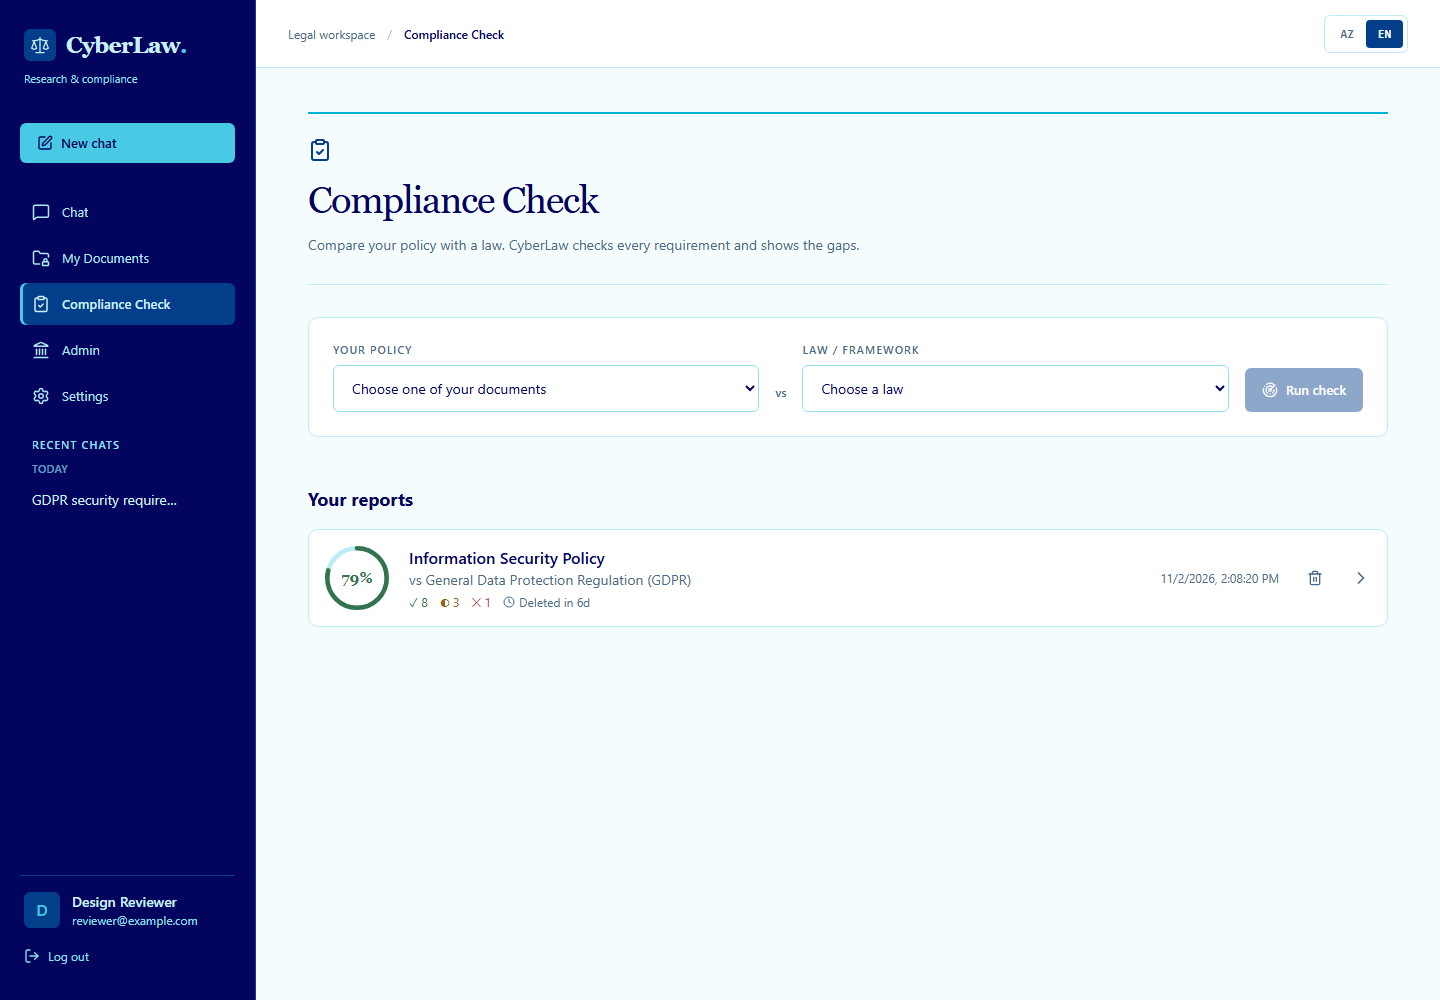
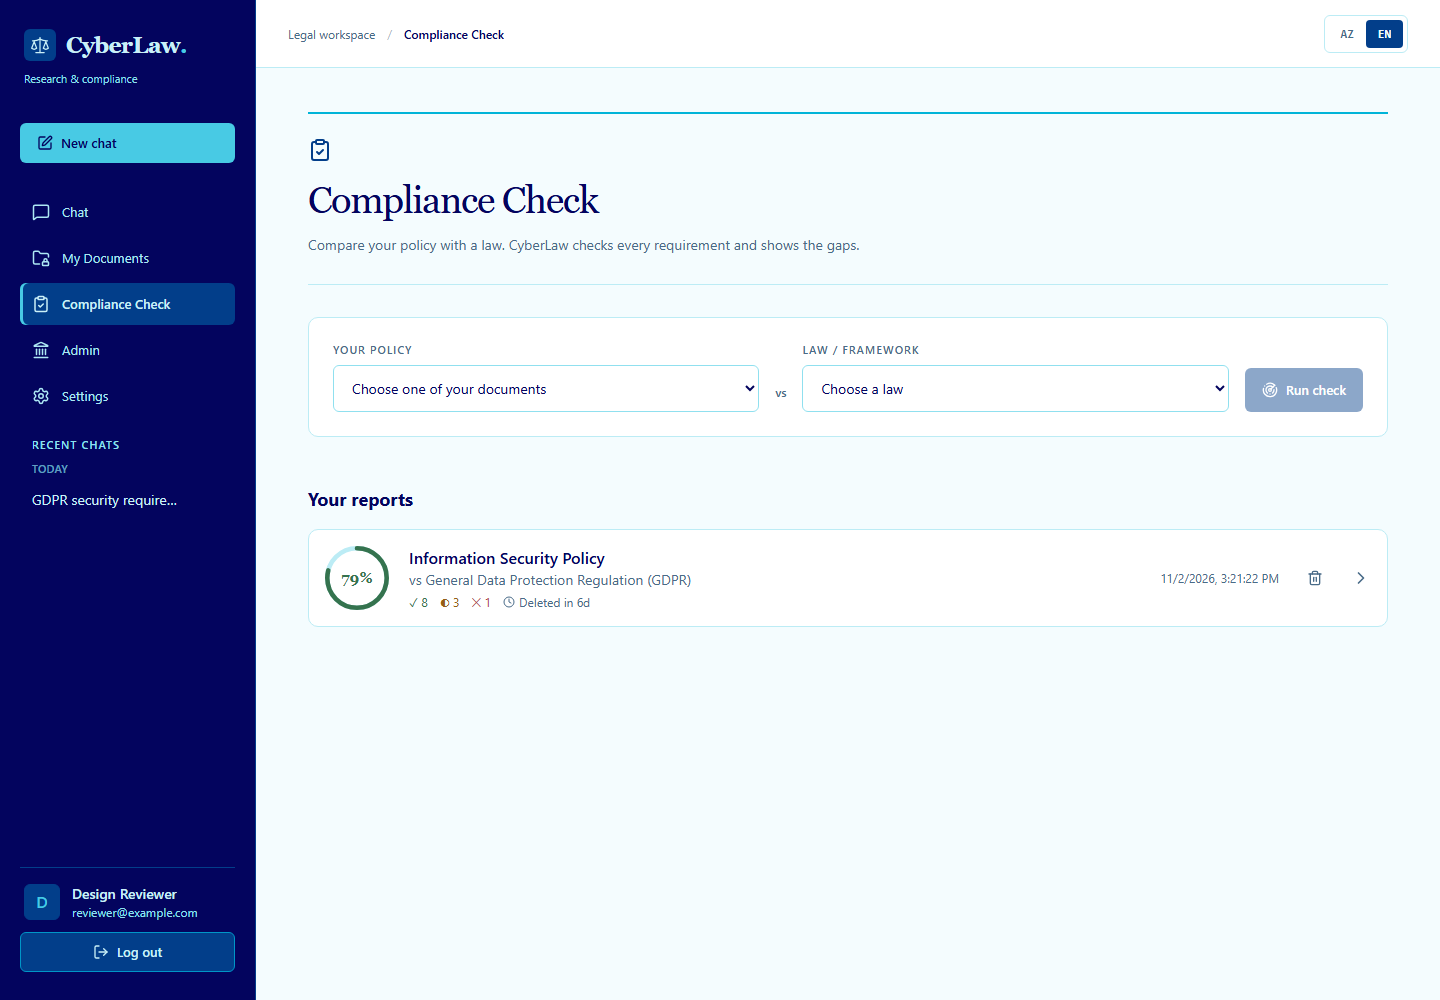
Align settings controls and limit AI status to admins

Changed region(s): [[0.0, 0.868, 0.1875, 0.992], [0.8438, 0.558, 0.875, 0.589]]

diff --git a/design-preview/index.html b/design-preview/index.html
@@ -3,7 +3,7 @@
 <style>
 *{box-sizing:border-box}body{margin:0;background:#f4fcfe;color:#03045e;font:14px/1.6 'Segoe UI',sans-serif}main{max-width:1400px;margin:auto;padding:48px 40px 80px}header{border-bottom:1px solid #ade8f4;padding-bottom:32px;margin-bottom:32px}.eyebrow{font-size:11px;color:#023e8a;letter-spacing:.12em;text-transform:uppercase}h1{font:400 48px/1.1 Georgia,serif;letter-spacing:-2px;margin:16px 0}p{color:#496b88;max-width:760px}.links{display:flex;gap:24px;flex-wrap:wrap;margin-top:24px}.links a{color:#023e8a;text-decoration:none;border-bottom:1px solid #48cae4}h2{font:400 28px Georgia,serif;margin:48px 0 20px}.grid{display:grid;grid-template-columns:repeat(2,minmax(0,1fr));gap:24px}.card{display:block;text-decoration:none;color:inherit;background:white;border:1px solid #ade8f4;border-radius:8px;overflow:hidden;transition:border-color .15s}.card:hover{border-color:#023e8a}.image{background:#caf0f8;aspect-ratio:1.44;overflow:hidden}.image img{display:block;width:100%;height:100%;object-fit:cover;object-position:top}.caption{display:flex;justify-content:space-between;align-items:center;padding:16px 18px;border-top:1px solid #ade8f4}.mobile-grid{grid-template-columns:repeat(4,minmax(0,1fr))}.mobile .image{aspect-ratio:390/844}.mobile .image img{object-fit:cover}.note{padding:20px 0;border-top:1px solid #ade8f4;margin-top:48px;font-size:12px;color:#496b88}a:focus-visible{outline:2px solid #023e8a;outline-offset:4px}@media(max-width:800px){main{padding:28px 20px 50px}h1{font-size:36px}.grid{grid-template-columns:1fr}.mobile-grid{grid-template-columns:repeat(2,minmax(0,1fr))}}@media(max-width:430px){.mobile-grid{grid-template-columns:1fr}}
 .palette{display:grid;grid-template-columns:repeat(8,minmax(0,1fr));margin:28px 0 4px;border-radius:8px;overflow:hidden}.swatch{height:80px;display:flex;align-items:flex-end;padding:10px;font:11px monospace}@media(max-width:800px){.palette{grid-template-columns:repeat(4,minmax(0,1fr))}}@media(max-width:430px){.swatch{padding:8px;font-size:10px}}</style></head><body><main><header><div class="eyebrow">CyberLaw / Blue palette / design/blue-workspace</div><h1>A legal workspace in blue.</h1><p>Deep navy navigation, royal blue actions, pale cyan surfaces, and editorial headings across the existing application. These are screenshots of the implemented interface, using sample data.</p><nav class="links"><span>Green version: switch to design/legal-workspace</span><a href="#desktop">Desktop screens</a><a href="#mobile">Mobile screens</a><a href="README.md">Review notes</a><a href="verification.json">Browser check results</a></nav><div class="palette" aria-label="Supplied colour palette"><div class="swatch" style="background:#03045e;color:#fff"><span>#03045E</span></div><div class="swatch" style="background:#023e8a;color:#fff"><span>#023E8A</span></div><div class="swatch" style="background:#0096c7;color:#03045e"><span>#0096C7</span></div><div class="swatch" style="background:#00b4d8;color:#03045e"><span>#00B4D8</span></div><div class="swatch" style="background:#48cae4;color:#03045e"><span>#48CAE4</span></div><div class="swatch" style="background:#90e0ef;color:#03045e"><span>#90E0EF</span></div><div class="swatch" style="background:#ade8f4;color:#03045e"><span>#ADE8F4</span></div><div class="swatch" style="background:#caf0f8;color:#03045e"><span>#CAF0F8</span></div></div></header>
-<h2 id="desktop">Desktop</h2><div class="grid"><a class="card desktop" href="21-composer-focused.png" target="_blank" rel="noopener"><div class="image"><img src="21-composer-focused.png" alt="Updated composer ? typing" loading="lazy"></div><div class="caption"><span>Updated composer ? typing</span><span aria-hidden>?</span></div></a><a class="card desktop" href="03-chat.png" target="_blank" rel="noopener"><div class="image"><img src="03-chat.png" alt="Chat workspace" loading="lazy"></div><div class="caption"><span>Chat workspace</span><span aria-hidden>↗</span></div></a>
+<h2 id="desktop">Desktop</h2><div class="grid"><a class="card desktop" href="23-user-settings.png" target="_blank" rel="noopener"><div class="image"><img src="23-user-settings.png" alt="Settings ? regular user" loading="lazy"></div><div class="caption"><span>Settings ? regular user</span><span aria-hidden>?</span></div></a><a class="card desktop" href="25-settings-az.png" target="_blank" rel="noopener"><div class="image"><img src="25-settings-az.png" alt="Settings ? Azerbaijani" loading="lazy"></div><div class="caption"><span>Settings ? Azerbaijani</span><span aria-hidden>?</span></div></a><a class="card desktop" href="21-composer-focused.png" target="_blank" rel="noopener"><div class="image"><img src="21-composer-focused.png" alt="Updated composer ? typing" loading="lazy"></div><div class="caption"><span>Updated composer ? typing</span><span aria-hidden>?</span></div></a><a class="card desktop" href="03-chat.png" target="_blank" rel="noopener"><div class="image"><img src="03-chat.png" alt="Chat workspace" loading="lazy"></div><div class="caption"><span>Chat workspace</span><span aria-hidden>↗</span></div></a>
 <a class="card desktop" href="01-sign-in.png" target="_blank" rel="noopener"><div class="image"><img src="01-sign-in.png" alt="Sign in" loading="lazy"></div><div class="caption"><span>Sign in</span><span aria-hidden>↗</span></div></a>
 <a class="card desktop" href="07-documents.png" target="_blank" rel="noopener"><div class="image"><img src="07-documents.png" alt="Documents &amp; official library" loading="lazy"></div><div class="caption"><span>Documents &amp; official library</span><span aria-hidden>↗</span></div></a>
 <a class="card desktop" href="08-compliance.png" target="_blank" rel="noopener"><div class="image"><img src="08-compliance.png" alt="Compliance check" loading="lazy"></div><div class="caption"><span>Compliance check</span><span aria-hidden>↗</span></div></a>
@@ -15,7 +15,7 @@
 <a class="card desktop" href="04-search-scope.png" target="_blank" rel="noopener"><div class="image"><img src="04-search-scope.png" alt="Search scope menu" loading="lazy"></div><div class="caption"><span>Search scope menu</span><span aria-hidden>↗</span></div></a>
 <a class="card desktop" href="02-create-account.png" target="_blank" rel="noopener"><div class="image"><img src="02-create-account.png" alt="Create account" loading="lazy"></div><div class="caption"><span>Create account</span><span aria-hidden>↗</span></div></a>
 <a class="card desktop" href="10-report-print.png" target="_blank" rel="noopener"><div class="image"><img src="10-report-print.png" alt="Report print layout" loading="lazy"></div><div class="caption"><span>Report print layout</span><span aria-hidden>↗</span></div></a>
-<a class="card desktop" href="18-chat-az.png" target="_blank" rel="noopener"><div class="image"><img src="18-chat-az.png" alt="Azerbaijani workspace" loading="lazy"></div><div class="caption"><span>Azerbaijani workspace</span><span aria-hidden>↗</span></div></a></div><h2 id="mobile">Mobile</h2><div class="grid mobile-grid"><a class="card mobile" href="22-mobile-composer-focused.png" target="_blank" rel="noopener"><div class="image"><img src="22-mobile-composer-focused.png" alt="Mobile composer ? typing" loading="lazy"></div><div class="caption"><span>Mobile composer ? typing</span><span aria-hidden>?</span></div></a><a class="card mobile" href="13-mobile-chat.png" target="_blank" rel="noopener"><div class="image"><img src="13-mobile-chat.png" alt="Mobile chat" loading="lazy"></div><div class="caption"><span>Mobile chat</span><span aria-hidden>↗</span></div></a>
+<a class="card desktop" href="18-chat-az.png" target="_blank" rel="noopener"><div class="image"><img src="18-chat-az.png" alt="Azerbaijani workspace" loading="lazy"></div><div class="caption"><span>Azerbaijani workspace</span><span aria-hidden>↗</span></div></a></div><h2 id="mobile">Mobile</h2><div class="grid mobile-grid"><a class="card mobile" href="24-user-mobile-settings.png" target="_blank" rel="noopener"><div class="image"><img src="24-user-mobile-settings.png" alt="Mobile settings ? regular user" loading="lazy"></div><div class="caption"><span>Mobile settings ? regular user</span><span aria-hidden>?</span></div></a><a class="card mobile" href="22-mobile-composer-focused.png" target="_blank" rel="noopener"><div class="image"><img src="22-mobile-composer-focused.png" alt="Mobile composer ? typing" loading="lazy"></div><div class="caption"><span>Mobile composer ? typing</span><span aria-hidden>?</span></div></a><a class="card mobile" href="13-mobile-chat.png" target="_blank" rel="noopener"><div class="image"><img src="13-mobile-chat.png" alt="Mobile chat" loading="lazy"></div><div class="caption"><span>Mobile chat</span><span aria-hidden>↗</span></div></a>
 <a class="card mobile" href="14-mobile-navigation.png" target="_blank" rel="noopener"><div class="image"><img src="14-mobile-navigation.png" alt="Mobile navigation" loading="lazy"></div><div class="caption"><span>Mobile navigation</span><span aria-hidden>↗</span></div></a>
 <a class="card mobile" href="15-mobile-documents.png" target="_blank" rel="noopener"><div class="image"><img src="15-mobile-documents.png" alt="Mobile documents" loading="lazy"></div><div class="caption"><span>Mobile documents</span><span aria-hidden>↗</span></div></a>
 <a class="card mobile" href="16-mobile-compliance.png" target="_blank" rel="noopener"><div class="image"><img src="16-mobile-compliance.png" alt="Mobile compliance" loading="lazy"></div><div class="caption"><span>Mobile compliance</span><span aria-hidden>↗</span></div></a>

diff --git a/frontend/src/pages/SettingsPage.tsx b/frontend/src/pages/SettingsPage.tsx
@@ -14,13 +14,15 @@ import {PageHeader} from '../components/PageHeader'
 export function SettingsPage() {
   const { t, lang, setLang, animations, setAnimations } = useSettings()
   const { user } = useAuth()
+  const isAdmin = user?.role === 'ADMIN'
   const [aiConfigured, setAiConfigured] = useState<boolean | null>(null)
 
   useEffect(() => {
+    if (!isAdmin) return
     get<{ aiConfigured: boolean }>('/health')
       .then((h) => setAiConfigured(h.aiConfigured))
       .catch(() => setAiConfigured(false))
-  }, [])
+  }, [isAdmin])
 
   const languages: { code: Lang; name: string; flag: string }[] = [
     { code: 'az', name: 'Azərbaycan dili', flag: '🇦🇿' },
@@ -32,30 +34,32 @@ export function SettingsPage() {
       <PageHeader icon={<Settings className="h-6 w-6" />} title={t('settings.title')} />
 
       <div className="space-y-4">
-        <Section icon={<Languages className="h-5 w-5" />} title={t('settings.language')} hint={t('settings.languageHint')}>
-          <div className="grid gap-3 sm:grid-cols-2">
+        <Section inline icon={<Languages className="h-5 w-5" />} title={t('settings.language')} hint={t('settings.languageHint')}>
+          <div className="grid w-full gap-2 sm:grid-cols-2 lg:w-auto">
             {languages.map((l) => (
               <button
                 key={l.code}
                 onClick={() => setLang(l.code)}
-                className={`flex items-center gap-3 rounded-xl border p-4 text-left transition-all ${
+                aria-pressed={lang === l.code}
+                className={`flex items-center gap-2 rounded-md border px-3 py-2.5 text-left text-sm transition-colors ${
                   lang === l.code
                     ? 'border-neon bg-neon/10'
                     : 'border-line hover:border-neon/40'
                 }`}
               >
-                <span className="text-2xl">{l.flag}</span>
-                <span className="font-semibold">{l.name}</span>
-                {lang === l.code && <CircleCheck className="ml-auto h-5 w-5 text-neon" />}
+                <span className="text-lg" aria-hidden>{l.flag}</span>
+                <span className="whitespace-nowrap font-semibold">{l.name}</span>
+                <CircleCheck aria-hidden className={`ml-auto h-4 w-4 shrink-0 text-neon ${lang === l.code ? '' : 'invisible'}`} />
               </button>
             ))}
           </div>
         </Section>
 
-        <Section icon={<Zap className="h-5 w-5" />} title={t('settings.animations')} hint={t('settings.animationsHint')}>
+        <Section inline icon={<Zap className="h-5 w-5" />} title={t('settings.animations')} hint={t('settings.animationsHint')}>
           <button
             onClick={() => setAnimations(!animations)}
             className={`relative h-8 w-16 rounded-full border transition-all ${animations ? 'border-neon bg-neon/20' : 'border-line bg-panel'}`}
+            aria-label={t('settings.animations')}
             aria-pressed={animations}
           >
             <motion.span
@@ -64,10 +68,10 @@ export function SettingsPage() {
               transition={{ type: 'spring', stiffness: 400, damping: 28 }}
             />
           </button>
-          <span className="ml-3 text-sm text-muted">{animations ? t('settings.on') : t('settings.off')}</span>
+          <span className="text-sm text-muted">{animations ? t('settings.on') : t('settings.off')}</span>
         </Section>
 
-        <Section icon={<BrainCircuit className="h-5 w-5" />} title={t('settings.aiStatus')}>
+        {isAdmin && <Section icon={<BrainCircuit className="h-5 w-5" />} title={t('settings.aiStatus')}>
           {aiConfigured === null ? (
             <span className="text-sm text-muted">{t('common.loading')}</span>
           ) : aiConfigured ? (
@@ -77,11 +81,10 @@ export function SettingsPage() {
           ) : (
             <span className="chip text-amber">
               <TriangleAlert className="h-3 w-3" />{' '}
-              {/* only the admin can fix the API key */}
-              {user?.role === 'ADMIN' ? t('settings.aiMissingAdmin') : t('settings.aiMissing')}
+              {t('settings.aiMissingAdmin')}
             </span>
           )}
-        </Section>
+        </Section>}
 
         <ChatHistorySection />
 
@@ -140,17 +143,17 @@ function ChatHistorySection() {
   )
 }
 
-function Section({ icon, title, hint, children }: { icon: ReactNode; title: string; hint?: string; children: ReactNode }) {
+function Section({ icon, title, hint, children, inline = false }: { icon: ReactNode; title: string; hint?: string; children: ReactNode; inline?: boolean }) {
   return (
-    <motion.section className="glass p-5" initial={{ opacity: 0, y: 8 }} animate={{ opacity: 1, y: 0 }}>
-      <div className="mb-4 flex items-center gap-3">
-        <span className="text-neon">{icon}</span>
-        <div>
+    <motion.section className={`glass p-5 ${inline ? 'flex flex-col gap-5 lg:flex-row lg:items-center lg:justify-between' : ''}`} initial={{ opacity: 0, y: 8 }} animate={{ opacity: 1, y: 0 }}>
+      <div className={`flex min-w-0 items-center gap-3 ${inline ? 'lg:flex-1' : 'mb-4'}`}>
+        <span className="shrink-0 text-neon">{icon}</span>
+        <div className="min-w-0">
           <h2 className="font-semibold">{title}</h2>
           {hint && <p className="text-xs text-muted">{hint}</p>}
         </div>
       </div>
-      <div className="flex flex-wrap items-center">{children}</div>
+      <div className={`flex flex-wrap items-center ${inline ? 'w-full gap-3 lg:w-auto lg:shrink-0' : ''}`}>{children}</div>
     </motion.section>
   )
 }

diff --git a/frontend/src/index.css b/frontend/src/index.css
@@ -108,6 +108,8 @@ button:not(:disabled) { cursor: pointer; }
   .auth-story .brand-mark { background: #023e8a; color: #caf0f8; }
   .workspace-sidebar .btn-neon { background: #48cae4; color: #03045e; }
   .workspace-sidebar .btn-neon:not(:disabled):hover { background: #90e0ef; }
+  .sidebar-logout { border-color: var(--color-ocean); background: #023e8a; color: #caf0f8; }
+  .sidebar-logout:hover { border-color: var(--color-aqua); background: #03045e; }
   .workspace-sidebar .input { background: #023e8a; border-color: #0096c7; color: #caf0f8; }
   .workspace-sidebar :focus-visible,
   .auth-story :focus-visible { outline-color: #48cae4; }

diff --git a/frontend/src/components/Layout.tsx b/frontend/src/components/Layout.tsx
@@ -68,7 +68,7 @@ export function Layout() {
           <div className="truncate text-xs text-muted">{user?.email}</div>
         </div>
       </div>
-      <button onClick={logout} className="flex w-full items-center gap-2 rounded-md px-1 py-2 text-xs text-muted transition-colors hover:text-ink">
+      <button onClick={logout} className="btn sidebar-logout w-full">
         <LogOut className="h-4 w-4" /> {t('nav.logout')}
       </button>
     </div>

diff --git a/design-preview/README.md b/design-preview/README.md
@@ -35,11 +35,19 @@ Focusing the writing area changes the existing outer border colour. The duplicat
 
 Focused browser checks: [composer-verification.json](composer-verification.json).
 
+## Settings refinements
+
+Language choices and the animation toggle align to the right of their descriptions on larger screens. On phones the controls stack below the descriptions, with the two language buttons arranged vertically.
+
+The AI model connection panel and its connection-status request are limited to admin accounts. Log out is a bordered button with its icon and label centered in both the desktop sidebar and mobile drawer.
+
+Role, layout and interaction checks: [settings-verification.json](settings-verification.json).
+
 ## Validation
 
 - `npm.cmd run typecheck` passes.
 - `npm.cmd run build` passes, with Vite's bundle-size advisory for the existing main JavaScript chunk.
 - [Browser results](verification.json): registration fields, login payload, search scope options, streamed answers, citations, compliance navigation, report filters, mobile navigation and phone-width overflow checks.
-- Twenty-two screenshots cover desktop and mobile, including English and Azerbaijani.
+- Twenty-five screenshots cover desktop and mobile, including English and Azerbaijani.
 
 Screenshots render the actual React interface using isolated sample API responses. No real account, documents, or backend records were changed. External fonts were disabled during capture, so the configured system fallbacks appear. Live backend and AI calls were not retested.
